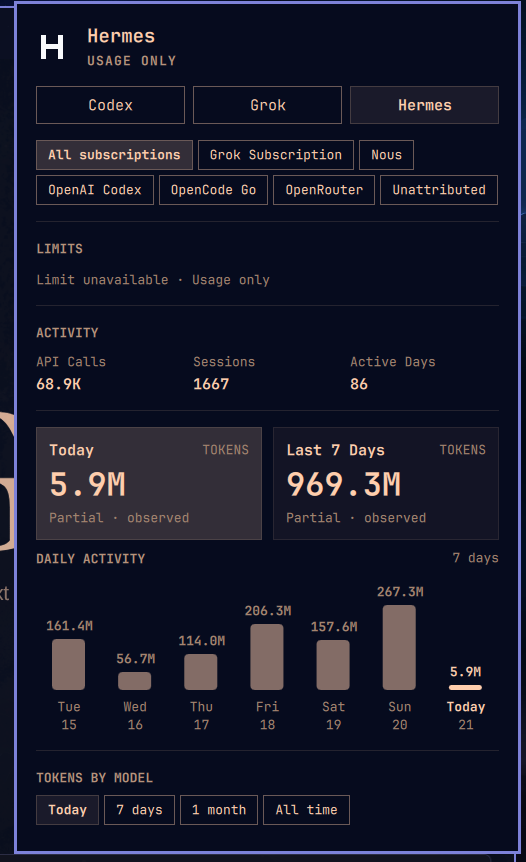
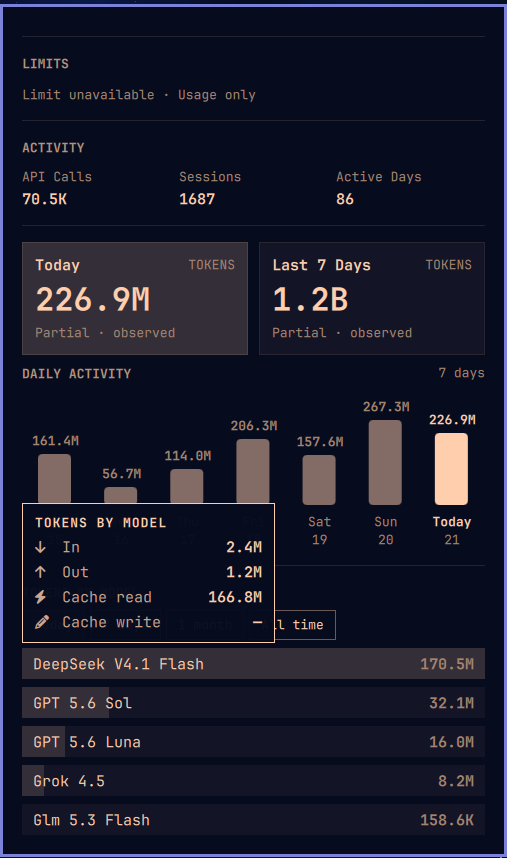
docs: refresh the marketplace preview with the model hover card

diff --git a/README.md b/README.md
@@ -46,7 +46,7 @@ Hovering any model row opens a small card with the tokens behind that model's to
 
 The panel combines provider tabs, today and last-7-days token cards, a daily activity chart, and a model-level token breakdown. The values shown below are real local usage statistics from the captured demo machine; every installation displays its own local records.
 
-![AI Agents Usage panel showing provider tabs, token summary cards, a daily activity chart, and model usage](preview.png)
+![AI Agents Usage panel showing activity stats, token summary cards, a daily activity chart, model usage, and the model token hover card](preview.png)
 
 ## Requirements
 
